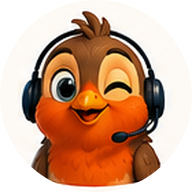
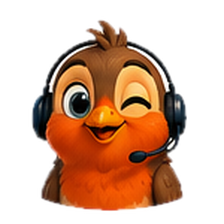
Quality: the Ask launcher is Robin's face as a sticker, nothing else
The five heads are die-cut stickers now (background flood-filled away,
white border). The launcher is the sticker alone: no pill, ring or tag, a
lift and tilt on hover, an accent edge while the chat is open.

Claude-Session: https://claude.ai/code/session_012M7VyTwRVnFWxWToTyjm9V

Changed region(s): [[0.0938, 0.0312, 0.875, 1.0], [0.375, 0.75, 0.5312, 0.8125], [0.4375, 0.8438, 0.4688, 0.875]]

diff --git a/projects/robin-experiment/broker/public/survey/index.html b/projects/robin-experiment/broker/public/survey/index.html
@@ -364,25 +364,20 @@
   .ask-cav{ font-size:.78rem; color:var(--accent); margin-top:11px; line-height:1.5; }
   .ask-cite{ margin-top:13px; display:flex; flex-wrap:wrap; gap:9px; align-items:baseline; }
   .ask-cite .lbl{ font-size:.6rem; }
-  /* The launcher is Robin herself: a round face in the corner, no pill, no text. The heads come
-     from the character sheet at the repo root, cut as circles on the sheet's own off-white so the
-     disc reads the same on either theme. The label appears on hover and focus, and the panel opens
-     above her. */
+  /* The launcher is Robin herself: her face as a sticker in the corner, nothing else. The heads
+     come from the character sheet at the repo root with the background cut away and a white
+     die-cut border, so they sit on either theme. The panel opens above her. */
   .askfab{ position:fixed; right:22px; bottom:22px; z-index:60; display:flex; align-items:center; gap:12px;
     font:inherit; background:none; border:0; padding:0; cursor:pointer; }
   .askfab[hidden]{ display:none; }
-  .askfab-i{ width:64px; height:64px; border-radius:50%; object-fit:cover; display:block;
-    box-shadow:0 0 0 3px var(--ink), 0 10px 28px rgba(0,0,0,.28); transition:transform .15s ease, box-shadow .15s ease; }
-  .askfab:hover .askfab-i, .askfab:focus-visible .askfab-i{ transform:translateY(-2px) scale(1.04); box-shadow:0 0 0 3px var(--accent), 0 14px 32px rgba(0,0,0,.3); }
-  .askfab[aria-expanded="true"] .askfab-i{ box-shadow:0 0 0 3px var(--accent), 0 10px 28px rgba(0,0,0,.28); }
+  /* A die-cut sticker of her head: transparent around her, a white border, a soft shadow. */
+  .askfab-i{ width:80px; height:80px; display:block; filter:drop-shadow(0 8px 14px rgba(0,0,0,.28)); transition:transform .15s ease, filter .15s ease; }
+  .askfab:hover .askfab-i, .askfab:focus-visible .askfab-i{ transform:translateY(-3px) scale(1.05) rotate(-3deg); filter:drop-shadow(0 12px 18px rgba(0,0,0,.32)); }
+  .askfab[aria-expanded="true"] .askfab-i{ filter:drop-shadow(0 0 0 2px var(--accent)) drop-shadow(0 8px 14px rgba(0,0,0,.28)); }
   .askfab:focus-visible{ outline:none; }
-  .askfab-tag{ order:-1; font-size:.68rem; letter-spacing:.12em; text-transform:uppercase; font-weight:700; color:var(--paper);
-    background:var(--ink); border-radius:999px; padding:8px 13px; opacity:0; transform:translateX(6px); transition:opacity .15s, transform .15s; pointer-events:none; white-space:nowrap; }
-  .askfab:hover .askfab-tag, .askfab:focus-visible .askfab-tag{ opacity:1; transform:none; }
-  .askfab[aria-expanded="true"] .askfab-tag{ display:none; }
   .askpanel-who{ display:inline-flex; align-items:center; gap:11px; }
-  .askface{ width:42px; height:42px; border-radius:50%; object-fit:cover; display:block; box-shadow:0 0 0 1px var(--line); transition:opacity .15s; }
-  .askpanel{ position:fixed; right:22px; bottom:100px; z-index:60; width:min(420px,calc(100vw - 32px)); max-height:min(70vh,640px);
+  .askface{ width:46px; height:46px; display:block; transition:opacity .15s; }
+  .askpanel{ position:fixed; right:22px; bottom:112px; z-index:60; width:min(420px,calc(100vw - 32px)); max-height:min(70vh,640px);
     overflow-y:auto; background:var(--paper); color:var(--ink); border:1px solid var(--ink); box-shadow:0 14px 40px rgba(0,0,0,.22); padding:16px 18px 20px; }
   .askpanel[hidden]{ display:none; }
   .askpanel-h{ display:flex; align-items:center; justify-content:space-between; gap:12px; padding-bottom:10px; border-bottom:2px solid var(--ink); }
@@ -398,7 +393,7 @@
     .c7,.c5,.c6{ grid-column:span 12; }
   }
   @media (max-width:560px){
-    .tile{ grid-column:span 12; } .xt{ font-size:.74rem; } .askfab{ right:14px; bottom:14px; } .askfab-i{ width:56px; height:56px; } .askpanel{ right:14px; bottom:84px; }
+    .tile{ grid-column:span 12; } .xt{ font-size:.74rem; } .askfab{ right:14px; bottom:14px; } .askfab-i{ width:66px; height:66px; } .askpanel{ right:14px; bottom:88px; }
     .ask-form{ flex-direction:column; } .ask-form button{ padding:12px; }
     .fun .row{ grid-template-columns:96px 1fr 36px; }
   }
@@ -485,11 +480,11 @@
 </div>
 
 <button class="askfab" id="askfab" type="button" aria-expanded="false" aria-controls="askpanel" aria-label="Ask Robin about the data" hidden>
-  <img class="askfab-i" id="askfabface" src="robin/happy.png" alt="" width="64" height="64"><span class="askfab-tag" aria-hidden="true">Ask the data</span>
+  <img class="askfab-i" id="askfabface" src="robin/happy.png" alt="" width="80" height="80" title="Ask the data">
 </button>
 <div class="askpanel" id="askpanel" role="dialog" aria-label="Ask a question about the survey data" hidden>
   <div class="askpanel-h">
-    <span class="askpanel-who"><img class="askface" id="askface" src="robin/happy.png" alt="" width="42" height="42"><span class="t">Ask the data</span></span>
+    <span class="askpanel-who"><img class="askface" id="askface" src="robin/happy.png" alt="" width="46" height="46"><span class="t">Ask the data</span></span>
     <button class="drw-x" id="askx" type="button">Close</button>
   </div>
   <p class="askpanel-lede" id="asklede">Answers come only from the survey responses in the current slice, with the calls cited. If they can’t answer, it says so.</p>

diff --git a/projects/robin-experiment/BUILD.md b/projects/robin-experiment/BUILD.md
@@ -68,11 +68,11 @@ flyrobin.app. His first pass of notes is built on `claude/quality-polish` for th
 - **Slide merged as PR #78**, live 2026-09-28. Grader stays on Sonnet 5 (Tanner); themes and Ask
   are Opus 5, the Question Tester's ask is Haiku 4.5.
 - **Robin on Ask the data (branch `claude/ask-robin`).** Five expression heads (happy, listening,
-  thinking, excited, helpful) cut from `Robin Character Sheet.png` at the repo root as 192 px
-  circles on the sheet's own off-white, in `broker/public/survey/robin/`. The launcher is Robin
-  herself (Tanner: as on Lumio): a 64 px round face in the corner with no pill or text, the "Ask
-  the data" tag only on hover or focus, an accent ring while open, and the chat panel opening
-  above her; the panel header carries a 42 px face that follows the exchange:
+  thinking, excited, helpful) cut from `Robin Character Sheet.png` at the repo root as 224 px
+  die-cut stickers (background flood-filled away, white border), in `broker/public/survey/robin/`.
+  The launcher is her face alone (Tanner: "her face only as the sticker"): an 80 px sticker in
+  the corner with no pill, ring or text, a lift and tilt on hover, an accent edge while open, and
+  the chat panel opening above her; the panel header carries a 42 px face that follows the exchange:
   listening while typing, thinking while the rows are read, helpful once an answer lands, happy
   otherwise. The five files are preloaded so the switch never flickers. Verified on the fixture
   in both themes through all four states, no script errors. The answers still come from a model
